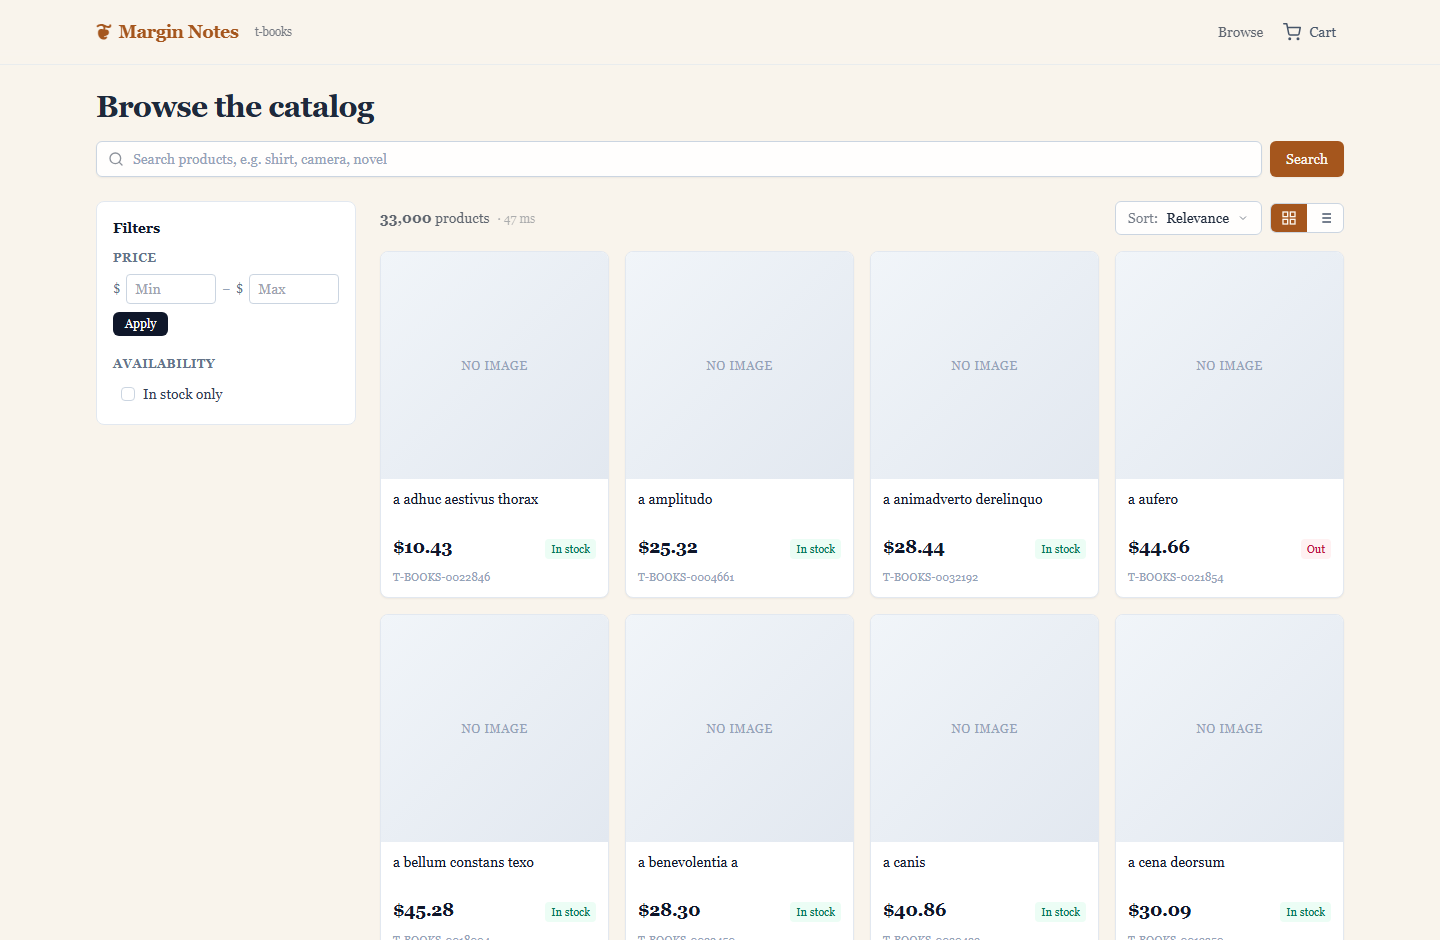
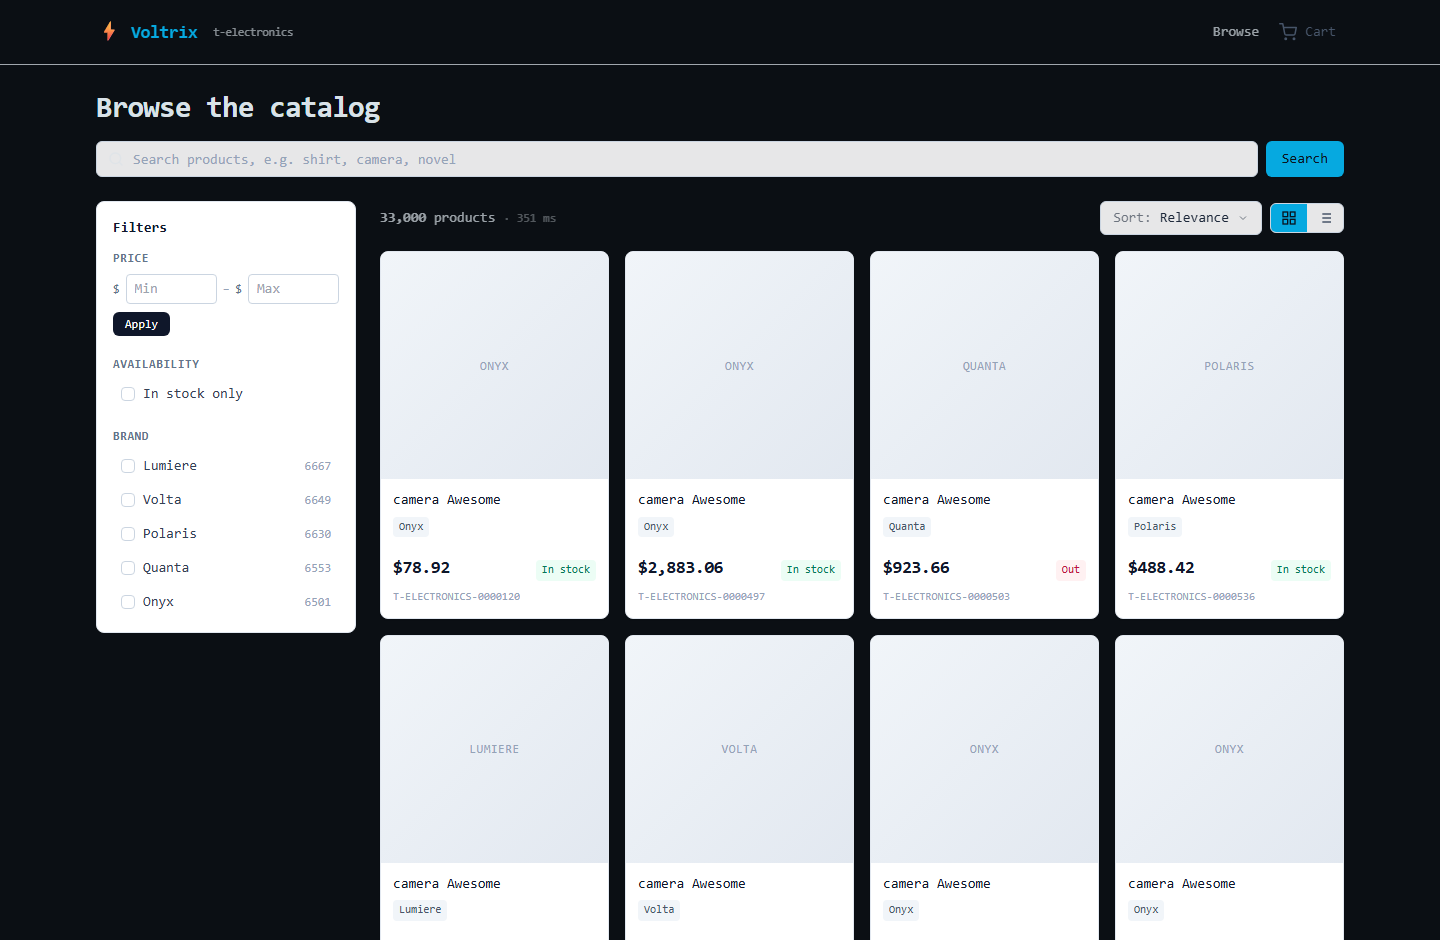
branding+storefront: a theme owns its foreground, not just its background (H-7)
The t-electronics theme set a near-black page background, and the storefront
hardcoded `text-slate-800` on <body>. Dark grey on near-black: the heading,
product count, latency badge, nav and footer were all effectively invisible.
One of three demo tenants looked broken, and nothing caught it — no test
asserts contrast and the page renders without error.

StorefrontTheme gains `pageFgHsl`, defaulted to the exact slate the layout
used to hardcode so light themes are byte-identical. The root cause was that
the contract let a tenant set a background without the foreground that goes
with it; a pair that must agree should not be separable.

Fixing the body colour then exposed the same bug inverted. Elements that
paint their own light surface — the sort control, the suggestions dropdown,
cards, the filters panel, cart and order panels, and the text input — were
inheriting the page foreground, so under a dark theme they rendered light
text on white. The rule that resolves both directions: a surface that sets
its own background sets its own text colour, and anything sitting directly
on the themed background inherits and uses opacity. Empty states moved from
`text-slate-700` to `opacity-80` for that reason.

Also adds .gitattributes, which is not cosmetic. The api refused to boot
mid-task with "Migration audit/0001_init.sql has been modified after being
applied (checksum mismatch)" on a file nobody had touched. The migration
[…]

diff --git a/apps/storefront/src/app/cart/cart-view.tsx b/apps/storefront/src/app/cart/cart-view.tsx
@@ -21,7 +21,7 @@ export function CartView({ cart, money }: { cart: CartWithTotals; money: MoneyFo
     <div className="grid grid-cols-1 gap-8 lg:grid-cols-[1fr_360px]">
       <section aria-labelledby="lines-heading">
         <h2 id="lines-heading" className="sr-only">Items</h2>
-        <ul className="divide-y divide-slate-200 rounded-lg border border-slate-200 bg-white" role="list">
+        <ul className="divide-y divide-slate-200 rounded-lg border border-slate-200 bg-white text-slate-800" role="list">
           {cart.lines.map((line) => {
             const priced = cart.totals.lines.find((l) => l.productId === line.productId);
             return (
@@ -158,7 +158,7 @@ function CouponBlock({
     });
 
   return (
-    <div className="rounded-lg border border-slate-200 bg-white p-4">
+    <div className="rounded-lg border border-slate-200 bg-white p-4 text-slate-800">
       <h2 className="text-sm font-semibold text-slate-900">Coupon</h2>
       {couponCode ? (
         <div className="mt-2 flex items-center justify-between rounded bg-emerald-50 px-3 py-2">
@@ -210,7 +210,7 @@ function TotalsBlock({
   money: MoneyFormat;
 }) {
   return (
-    <dl className="mt-4 space-y-1.5 rounded-lg border border-slate-200 bg-white p-4 text-sm">
+    <dl className="mt-4 space-y-1.5 rounded-lg border border-slate-200 bg-white p-4 text-sm text-slate-800">
       <Row label="Subtotal" value={formatMinorUnitsIn(totals.subtotalCents, totals.currency, money)} />
       {totals.discountCents > 0 ? (
         <Row

diff --git a/apps/storefront/src/components/toolbar.tsx b/apps/storefront/src/components/toolbar.tsx
@@ -48,7 +48,7 @@ export function Toolbar({
       </div>
       <div className="flex items-center gap-2">
         <details className="group relative">
-          <summary className="flex cursor-pointer items-center gap-2 rounded-md border border-slate-300 bg-white/90 px-3 py-1.5 text-sm marker:hidden hover:bg-slate-100">
+          <summary className="flex cursor-pointer items-center gap-2 rounded-md border border-slate-300 bg-white/90 px-3 py-1.5 text-sm text-slate-800 marker:hidden hover:bg-slate-100">
             <span className="opacity-60">Sort:</span>
             <span className="font-medium">{currentSort.label}</span>
             <svg
@@ -65,7 +65,7 @@ export function Toolbar({
             </svg>
           </summary>
           <ul
-            className="absolute right-0 z-10 mt-1 w-56 overflow-hidden rounded-md border border-slate-200 bg-white shadow-lg"
+            className="absolute right-0 z-10 mt-1 w-56 overflow-hidden rounded-md border border-slate-200 bg-white text-slate-800 shadow-lg"
             role="listbox"
           >
             {SORT_OPTIONS.map((opt) => {
@@ -110,7 +110,7 @@ function ViewToggle({
 }) {
   return (
     <div
-      className="inline-flex overflow-hidden rounded-md border border-slate-300 bg-white/90"
+      className="inline-flex overflow-hidden rounded-md border border-slate-300 bg-white/90 text-slate-800"
       role="group"
       aria-label="View"
     >

diff --git a/apps/seed/src/pricing-seed.ts b/apps/seed/src/pricing-seed.ts
@@ -43,6 +43,7 @@ const THEMES_BY_TENANT: Record<string, Record<string, string>> = {
     brandHsl: '340 65% 48%', // muted rose
     brandFgHsl: '0 0% 100%',
     pageBgHsl: '40 30% 98%', // warm off-white
+    pageFgHsl: '340 12% 18%', // warm near-black, picks up the rose
     fontSans: "'Cormorant Garamond', 'Georgia', serif",
   },
   't-electronics': {
@@ -52,6 +53,7 @@ const THEMES_BY_TENANT: Record<string, Record<string, string>> = {
     brandHsl: '195 95% 45%', // electric cyan
     brandFgHsl: '210 50% 8%', // near-black with blue
     pageBgHsl: '210 30% 6%', // dark mode page
+    pageFgHsl: '205 25% 88%', // light text — the whole point of a dark theme
     fontSans: "'JetBrains Mono', 'Consolas', monospace",
   },
   't-books': {
@@ -61,6 +63,7 @@ const THEMES_BY_TENANT: Record<string, Record<string, string>> = {
     brandHsl: '25 70% 38%', // burnt sienna
     brandFgHsl: '40 60% 96%',
     pageBgHsl: '40 50% 95%', // creamy paper
+    pageFgHsl: '25 30% 20%', // ink brown
     fontSans: "'Lora', 'Iowan Old Style', Georgia, serif",
   },
 };

diff --git a/packages/modules/branding/contracts/src/theme.dto.ts b/packages/modules/branding/contracts/src/theme.dto.ts
@@ -24,6 +24,16 @@ export interface StorefrontTheme {
   /** Page background tint. HSL tuple. */
   readonly pageBgHsl: string;
   /**
+   * Body text colour on that background. HSL tuple.
+   *
+   * Exists because a background alone is not a theme: a tenant that sets a
+   * dark `pageBgHsl` used to get the storefront's hardcoded dark-grey body
+   * text on near-black, which rendered headings and counts effectively
+   * invisible. Anything that carries a background has to carry the
+   * foreground that goes with it, or the pair can be set inconsistently.
+   */
+  readonly pageFgHsl: string;
+  /**
    * Font stack. Use CSS-safe entries; the storefront sets `--font-sans` to
    * this value and the layout's `<html>` reads it.
    */
@@ -37,5 +47,6 @@ export const DEFAULT_THEME: StorefrontTheme = {
   brandHsl: '220 90% 56%',
   brandFgHsl: '0 0% 100%',
   pageBgHsl: '0 0% 100%',
+  pageFgHsl: '215 25% 27%', // slate-800, the colour the storefront used to hardcode
   fontSans: "'Inter', system-ui, -apple-system, 'Segoe UI', sans-serif",
 };

diff --git a/apps/storefront/src/components/ui/input.tsx b/apps/storefront/src/components/ui/input.tsx
@@ -7,7 +7,10 @@ export const Input = React.forwardRef<HTMLInputElement, React.InputHTMLAttribute
       ref={ref}
       type={type}
       className={cn(
-        'flex h-9 w-full rounded-md border border-slate-300 bg-white/90 px-3 py-1 text-sm shadow-sm transition-colors placeholder:text-slate-400 focus-visible:border-brand focus-visible:outline-none focus-visible:ring-2 focus-visible:ring-brand/30 disabled:cursor-not-allowed disabled:opacity-50',
+        // text-slate-800 rather than inheriting: the field paints its own light
+        // background, so under a dark tenant theme the typed value would
+        // otherwise be light-on-white and invisible as you type.
+        'flex h-9 w-full rounded-md border border-slate-300 bg-white/90 px-3 py-1 text-sm text-slate-800 shadow-sm transition-colors placeholder:text-slate-400 focus-visible:border-brand focus-visible:outline-none focus-visible:ring-2 focus-visible:ring-brand/30 disabled:cursor-not-allowed disabled:opacity-50',
         className,
       )}
       {...props}

diff --git a/apps/storefront/src/app/layout.tsx b/apps/storefront/src/app/layout.tsx
@@ -35,6 +35,7 @@ export default async function RootLayout({ children }: { children: React.ReactNo
   --brand: ${theme.brandHsl};
   --brand-fg: ${theme.brandFgHsl};
   --page-bg: ${theme.pageBgHsl};
+  --page-fg: ${theme.pageFgHsl};
   --font-sans: ${theme.fontSans};
 }`;
 
@@ -43,7 +44,7 @@ export default async function RootLayout({ children }: { children: React.ReactNo
       <head>
         <style dangerouslySetInnerHTML={{ __html: themeCss }} />
       </head>
-      <body className="min-h-screen bg-page font-sans text-slate-800">
+      <body className="min-h-screen bg-page font-sans text-page-fg">
         <header className="border-b border-slate-200/70 bg-page/80 backdrop-blur">
           <div className="container mx-auto flex items-center justify-between px-4 py-4">
             <a href="/" className="flex items-center gap-2 text-lg font-semibold tracking-tight">

diff --git a/apps/storefront/src/app/cart/page.tsx b/apps/storefront/src/app/cart/page.tsx
@@ -27,8 +27,8 @@ export default async function CartPage() {
       <main className="container mx-auto px-4 py-10">
         <h1 className="mb-6 text-2xl font-bold tracking-tight md:text-3xl">Your cart</h1>
         <div className="flex flex-col items-center justify-center rounded-lg border border-dashed border-slate-300 p-12 text-center">
-          <p className="text-base font-medium text-slate-700">Your cart is empty.</p>
-          <p className="mt-1 text-sm text-slate-500">
+          <p className="text-base font-medium opacity-80">Your cart is empty.</p>
+          <p className="mt-1 text-sm opacity-60">
             Find something to buy and we&apos;ll keep it here.
           </p>
           <Link

diff --git a/apps/storefront/src/app/orders/[id]/page.tsx b/apps/storefront/src/app/orders/[id]/page.tsx
@@ -43,7 +43,7 @@ export default async function OrderConfirmationPage({ params }: PageProps) {
           The totals on this page are the immutable snapshot taken at checkout — they will not move if the catalog price changes.
         </p>
 
-        <section className="mt-8 overflow-hidden rounded-lg border border-slate-200 bg-white">
+        <section className="mt-8 overflow-hidden rounded-lg border border-slate-200 bg-white text-slate-800">
           <header className="border-b border-slate-200 bg-slate-50 px-4 py-2 text-xs font-semibold uppercase tracking-wider text-slate-500">
             Lines
           </header>

diff --git a/apps/storefront/src/components/ui/card.tsx b/apps/storefront/src/components/ui/card.tsx
@@ -6,7 +6,10 @@ export const Card = React.forwardRef<HTMLDivElement, React.HTMLAttributes<HTMLDi
     <div
       ref={ref}
       className={cn(
-        'overflow-hidden rounded-lg border border-slate-200 bg-white shadow-sm transition-shadow',
+        // A card paints its own light surface, so it sets its own text colour
+        // rather than inheriting the tenant's page foreground — otherwise a dark
+        // theme renders light text on a white card.
+        'overflow-hidden rounded-lg border border-slate-200 bg-white text-slate-800 shadow-sm transition-shadow',
         className,
       )}
       {...props}

diff --git a/apps/storefront/src/components/product-grid.tsx b/apps/storefront/src/components/product-grid.tsx
@@ -32,8 +32,8 @@ export function ProductGrid({ items, view, money }: ProductGridProps) {
   if (items.length === 0) {
     return (
       <div className="flex min-h-[300px] flex-col items-center justify-center rounded-lg border border-dashed border-slate-300 p-8 text-center">
-        <p className="text-base font-medium text-slate-700">No results</p>
-        <p className="mt-1 text-sm text-slate-500">Try clearing some filters.</p>
+        <p className="text-base font-medium opacity-80">No results</p>
+        <p className="mt-1 text-sm opacity-60">Try clearing some filters.</p>
       </div>
     );
   }

diff --git a/apps/storefront/src/components/search-bar.tsx b/apps/storefront/src/components/search-bar.tsx
@@ -155,7 +155,7 @@ export function SearchBar({ basePath, searchParams, money }: SearchBarProps) {
         <div
           id="search-suggestions"
           role="listbox"
-          className="absolute left-0 right-0 top-full z-20 mt-1 overflow-hidden rounded-md border border-slate-200 bg-white shadow-lg"
+          className="absolute left-0 right-0 top-full z-20 mt-1 overflow-hidden rounded-md border border-slate-200 bg-white text-slate-800 shadow-lg"
         >
           {loading && suggestions.length === 0 ? (
             <div className="px-3 py-2 text-sm text-slate-500">Searching…</div>

diff --git a/apps/storefront/src/components/facet-sidebar.tsx b/apps/storefront/src/components/facet-sidebar.tsx
@@ -46,7 +46,7 @@ export function FacetSidebar({
 
   return (
     <aside className="lg:sticky lg:top-4 lg:self-start" aria-label="Filters">
-      <div className="rounded-lg border border-slate-200 bg-white p-4">
+      <div className="rounded-lg border border-slate-200 bg-white p-4 text-slate-800">
         <div className="mb-3 flex items-center justify-between">
           <h2 className="text-sm font-semibold text-slate-900">Filters</h2>
           {hasAnySelection ? (
